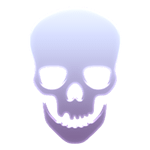
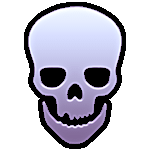
boss points adjustments and visual edits

Changed region(s): [[0.16, 0.0, 0.8533, 1.0], [0.4267, 0.5333, 0.56, 0.6667]]

diff --git a/KhTracker/MainWindow.xaml b/KhTracker/MainWindow.xaml
@@ -128,7 +128,7 @@
                 <!-- 6.6 -->
                 <RowDefinition x:Name="WorldRow" Height="6.6*"/>
                 <!-- 0.8 -->
-                <RowDefinition x:Name="InfoRow"  Height="0.8*"/>
+                <RowDefinition x:Name="InfoRow"  Height="0.9*"/>
                 <!-- 0.45 -->
                 <RowDefinition x:Name="FormRow"  Height="0.45*"/>
                 <!-- 2.2 -->
@@ -841,7 +841,7 @@
                         <local:WorldGrid x:Name="DriveFormsGrid" Grid.Column="2"/>
                         <!-- fancy spacer colors -->
                         <Rectangle Fill="#D81E1E1E" Panel.ZIndex="-1"/>
-                        <Rectangle Grid.Column="1" Fill="#FF454545" Panel.ZIndex="-1" Opacity="0.9"/>
+                        <Rectangle Fill="#FF454545" Grid.Column="1" Panel.ZIndex="-1" Opacity="0.9"/>
                         <Rectangle Grid.Row="1" Grid.Column="2" Fill="#D81E1E1E" Panel.ZIndex="-1"/>
                         <Rectangle Name="DriveFormsSelWG" Grid.Column="2" Fill="#B25A5A5A" Panel.ZIndex="-1" Visibility="Collapsed"/>
                     </Grid>
@@ -1543,7 +1543,18 @@
                             </local:OutlinedTextBlock>
                         </Viewbox>
                     </Grid>
-                    <Rectangle Name="DeathCounterRec" Grid.Column="1" Fill="#D81E1E1E" Panel.ZIndex="-1" Margin="5,-5,-10,0"/>
+
+
+                    <Border Name="DeathCounterRec" Grid.Column="1" Panel.ZIndex="-1" Margin="4,-6,-20,-0.5">
+                        <Border.OpacityMask>
+                            <VisualBrush>
+                                <VisualBrush.Visual>
+                                    <Border CornerRadius="20,0,0,0" Height="100" Width="100" Background="White" BorderThickness="25,0,15,50"/>
+                                </VisualBrush.Visual>
+                            </VisualBrush>
+                        </Border.OpacityMask>
+                        <Rectangle Fill="#D81E1E1E" />
+                    </Border>
                 </Grid>
 
                 <!-- Hash Text -->
@@ -1581,22 +1592,22 @@
                     <Grid.ColumnDefinitions>
                         <ColumnDefinition  Width="1.0*"/>
                         <!-- 0.6* when enabled-->
-                        <ColumnDefinition x:Name="NextLevelCol" Width="1*"/>
+                        <ColumnDefinition x:Name="NextLevelCol" Width="0.6*"/>
                         <ColumnDefinition Width="0.05*"/>
-                        <ColumnDefinition Width="1.15*"/>
+                        <ColumnDefinition Width="1.25*"/>
                         <ColumnDefinition Width="0.05*"/>
-                        <ColumnDefinition Width="1.15*"/>
+                        <ColumnDefinition Width="1.25*"/>
                         <ColumnDefinition Width="0.05*"/>
-                        <ColumnDefinition Width="1.15*"/>
+                        <ColumnDefinition Width="1.25*"/>
                         <ColumnDefinition Width="0.05*"/>
-                        <ColumnDefinition Width="1.0*"/>
+                        <ColumnDefinition Width="1*"/>
                         <ColumnDefinition Width="0.05*"/>
                         <ColumnDefinition Width="1.3*"/>
                     </Grid.ColumnDefinitions>
                     <!-- Level -->
                     <Grid x:Name="Level" Visibility="Visible">
                         <Grid.ColumnDefinitions>
-                            <ColumnDefinition Width="0.65*"/>
+                            <ColumnDefinition Width="0.7*"/>
                             <ColumnDefinition Width="1*"/>
                         </Grid.ColumnDefinitions>
                         <ContentControl Content="{DynamicResource LevelIcon}" x:Name="LevelIcon"/>
@@ -1626,7 +1637,7 @@
                         </Viewbox>
                     </Grid>
                     <!-- Strength -->
-                    <Grid x:Name="Strength" Grid.Column="3" Visibility="Collapsed">
+                    <Grid x:Name="Strength" Grid.Column="3" Visibility="Visible">
                         <Grid.ColumnDefinitions>
                             <ColumnDefinition Width="0.4*"/>
                             <ColumnDefinition  Width="1*"/>
@@ -1644,7 +1655,7 @@
                         </Viewbox>
                     </Grid>
                     <!-- Magic -->
-                    <Grid x:Name="Magic" Grid.Column="5" Visibility="Collapsed">
+                    <Grid x:Name="Magic" Grid.Column="5" Visibility="Visible">
                         <Grid.ColumnDefinitions>
                             <ColumnDefinition Width="0.4*"/>
                             <ColumnDefinition  Width="1*"/>
@@ -1662,7 +1673,7 @@
                         </Viewbox>
                     </Grid>
                     <!-- Defense -->
-                    <Grid x:Name="Defense" Grid.Column="7" Visibility="Collapsed">
+                    <Grid x:Name="Defense" Grid.Column="7" Visibility="Visible">
                         <Grid.ColumnDefinitions>
                             <ColumnDefinition Width="0.4*"/>
                             <ColumnDefinition  Width="1*"/>

diff --git a/KhTracker/AutoTracking/AutoTracker.cs b/KhTracker/AutoTracking/AutoTracker.cs
@@ -1591,7 +1591,7 @@ namespace KhTracker
             else
                 eventInProgress = false;
 
-            //boss beaten events from progression code
+            //boss beaten events (taken mostly from progression code)
             switch (world.worldName)
             {
                 case "SimulatedTwilightTown":
@@ -1897,12 +1897,12 @@ namespace KhTracker
                     return;
             }
 
-            //if the boss was found and beaten then set flag
-            if (world.eventComplete == 1 && boss != "None")
-                eventInProgress = true;
-
             if (boss == "None")
                 return;
+
+            //if the boss was found and beaten then set flag
+            if (world.eventComplete == 1)
+                eventInProgress = true;
 
             if (App.logger != null)
                 App.logger.Record("Beaten Boss: " + boss);
@@ -1915,7 +1915,6 @@ namespace KhTracker
         private void GetBossPoints(string boss)
         {
             int points;
-            int bonuspoints = 0;
             string bossType;
             string replacementType;
 
@@ -1962,7 +1961,8 @@ namespace KhTracker
                     points += data.PointsDatanew[replacementType];
 
                     //bonus points here should be sum of both boss types / 2
-                    points += points / 2;
+                    if (points > 1)
+                        points += points / 2;
                 }
                 else
                 {
@@ -1982,7 +1982,7 @@ namespace KhTracker
                     bossType = "boss_other";
                 }
 
-                if (data.BossRandoFound && !boss.StartsWith("Final Xemnas") && data.BossList.ContainsKey(boss))
+                if (data.BossRandoFound && data.BossList.ContainsKey(boss))
                 {
                     replacementType = Codes.FindBossType(data.BossList[boss]);
 
@@ -2003,9 +2003,11 @@ namespace KhTracker
 
                     points = data.PointsDatanew[replacementType];
 
-                    //add extra points for bosses in data/sephi/terra arenas
+                    //add extra points for bosses in special arenas
+                    int bonuspoints = 0;
                     switch (bossType)
                     {
+                        case "boss_as":
                         case "boss_datas":
                         case "boss_sephi":
                         case "boss_terra":
@@ -2014,7 +2016,7 @@ namespace KhTracker
                     }
 
                     //arena bonus is full boss points of that arena / 2
-                    if (bonuspoints > 0)
+                    if (bonuspoints > 1)
                         bonuspoints /= 2;
 
                     points += bonuspoints;
@@ -2024,6 +2026,7 @@ namespace KhTracker
                     points = data.PointsDatanew[bossType];
 
                     //temp fix. might change if final xemnas gets randomized
+                    //for now this just makes worth data points * 2
                     if (boss == "Final Xemnas (Data)")
                         points += data.PointsDatanew["boss_datas"];
 
@@ -2031,7 +2034,7 @@ namespace KhTracker
                     if(data.BossRandoFound)
                     {
                         if (App.logger != null)
-                            App.logger.Record("Static boss found? Boss: " + boss);
+                            App.logger.Record("No replacement found? Boss: " + boss);
                     }
                 }
             }
